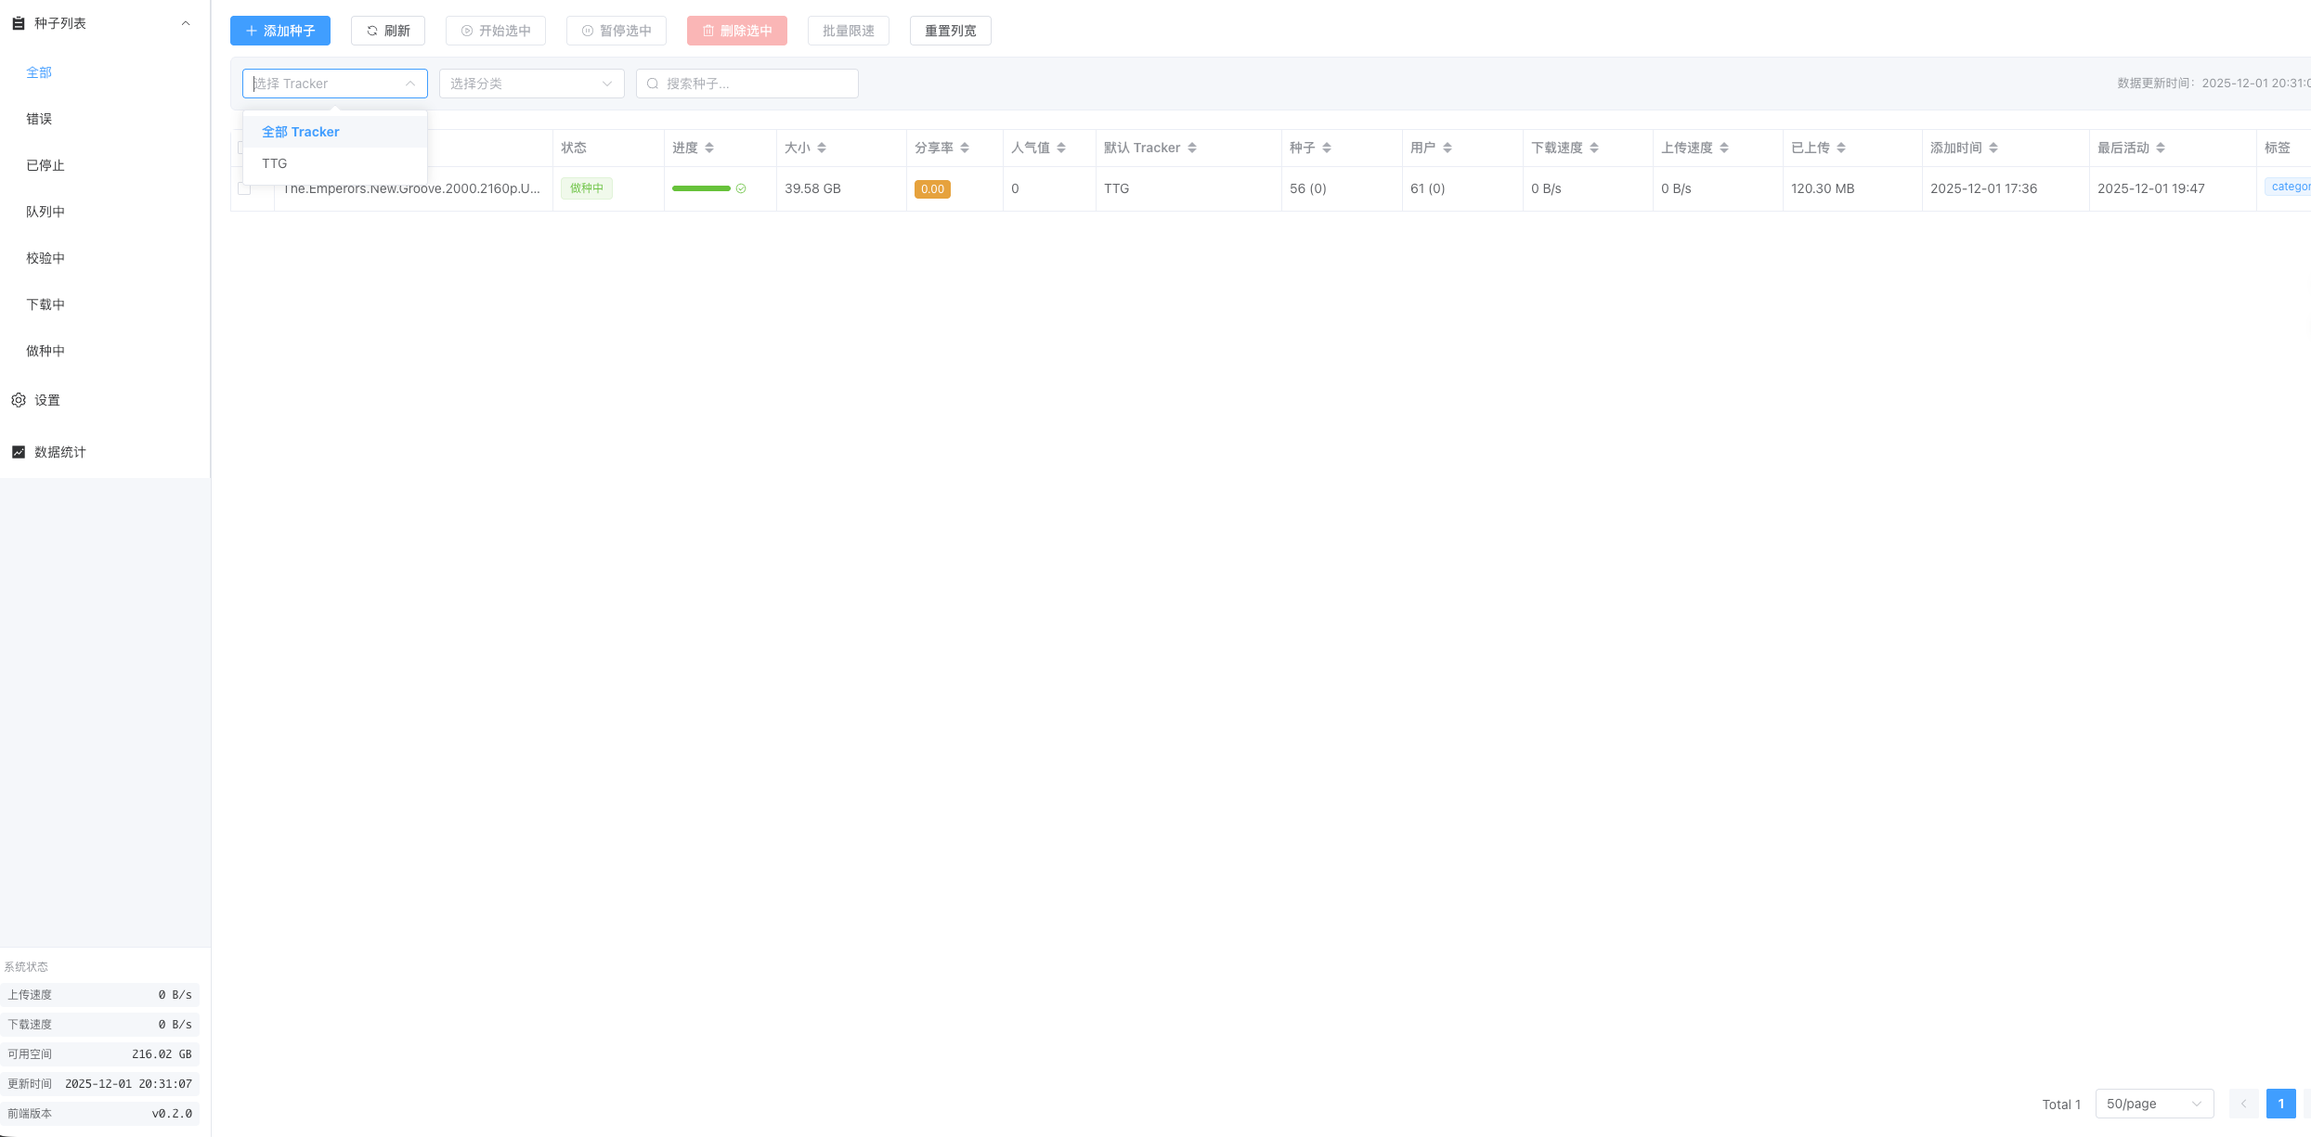
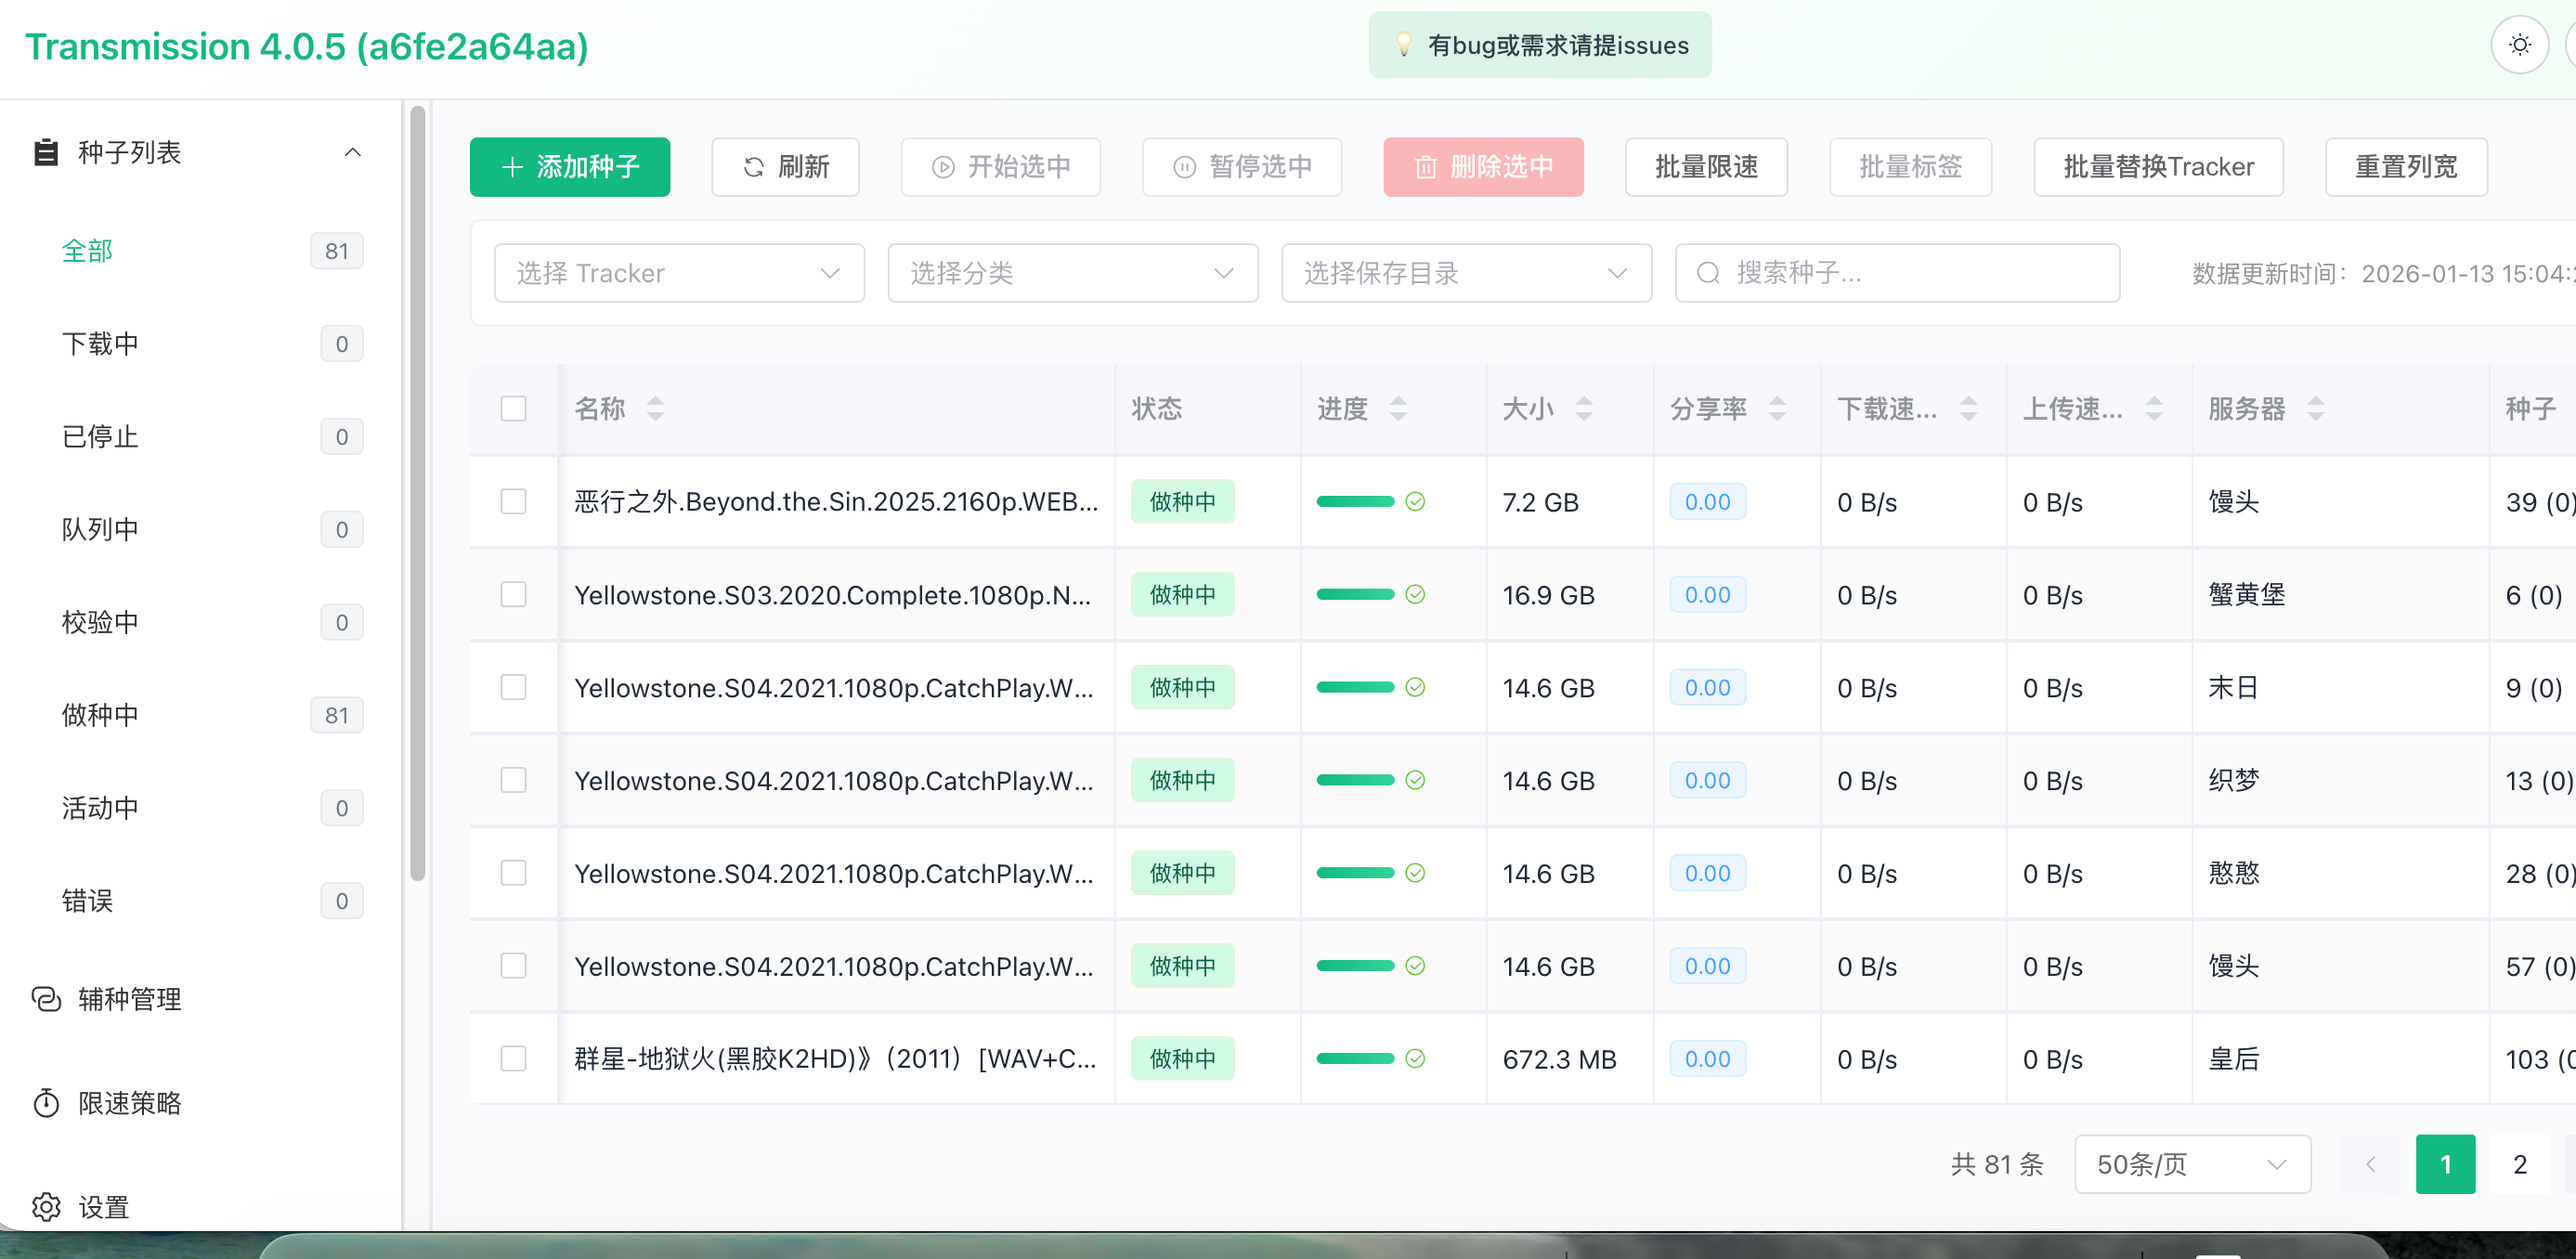
优化全局限速提示,修复默认主题，更新预览图

diff --git a/src/views/HomeView.vue b/src/views/HomeView.vue
@@ -241,6 +241,9 @@
         查看详情
       </button>
       <button @click="handleContextAction('limit')">限速设置</button>
+      <div class="context-menu-divider"></div>
+      <button @click="handleContextAction('copy')">复制文本</button>
+      <div class="context-menu-divider"></div>
       <button class="danger" @click="handleContextAction('delete')">
         删除{{ contextMenuTargets.length > 1 ? "选中" : "" }}
       </button>
@@ -2682,6 +2685,7 @@ const handleContextAction = (
     | "limit"
     | "category"
     | "labels"
+    | "copy"
 ) => {
   const targets = [...contextMenuTargets.value];
   if (!targets.length) return;
@@ -2742,6 +2746,17 @@ const handleContextAction = (
       openBatchLimitDialogWithTargets(targets);
     } else {
       openSingleLimitDialog(targets[0]!);
+    }
+    return;
+  }
+  if (action === "copy") {
+    const selectedText = window.getSelection()?.toString() || "";
+    if (selectedText) {
+      navigator.clipboard.writeText(selectedText).then(() => {
+        ElMessage.success("已复制到剪贴板");
+      }).catch(() => {
+        ElMessage.error("复制失败");
+      });
     }
   }
 };
@@ -4192,6 +4207,12 @@ onBeforeUnmount(() => {
 
 .context-menu button.danger {
   color: #f56c6c;
+}
+
+.context-menu-divider {
+  height: 1px;
+  background-color: #ebeef5;
+  margin: 4px 0;
 }
 
 .table-container {

diff --git a/src/layouts/MainLayout.vue b/src/layouts/MainLayout.vue
@@ -252,18 +252,16 @@ const uploadLimitKBps = computed(() => {
   const c = sessionConfig.value;
   if (!c) return null;
   if (c['alt-speed-enabled']) return c['alt-speed-up'] ?? null;
-  const up = c['speed-limit-up'] ?? 0;
   const enabled = !!c['speed-limit-up-enabled'];
-  if (enabled || up > 0) return up || null;
+  if (enabled) return c['speed-limit-up'] ?? null;
   return null;
 });
 const downloadLimitKBps = computed(() => {
   const c = sessionConfig.value;
   if (!c) return null;
   if (c['alt-speed-enabled']) return c['alt-speed-down'] ?? null;
-  const down = c['speed-limit-down'] ?? 0;
   const enabled = !!c['speed-limit-down-enabled'];
-  if (enabled || down > 0) return down || null;
+  if (enabled) return c['speed-limit-down'] ?? null;
   return null;
 });
 const formatSpeedCompact = (bytesPerSecond: number): string => {
@@ -271,8 +269,8 @@ const formatSpeedCompact = (bytesPerSecond: number): string => {
   return `${formatBytes(bytesPerSecond).replace(" ", "")}/s`;
 };
 const formatLimitText = (kbps: number | null): string | null => {
-  if (kbps == null) return null;
-  return formatSpeedCompact(kbps * 1024);
+  if (kbps == null || kbps === 0) return null;
+  return Math.floor(kbps).toString();
 };
 const uploadSpeedText = computed(() => {
   const bps = sessionStats.value?.uploadSpeed || 0;

diff --git a/src/stores/theme.ts b/src/stores/theme.ts
@@ -13,9 +13,13 @@ export const useThemeStore = defineStore('theme', () => {
     if (savedTheme === 'fresh' || savedTheme === 'default') {
       currentTheme.value = 'green'
       localStorage.setItem('app-theme', 'green')
+      applyTheme('green')
     } else if (savedTheme === 'green' || savedTheme === 'blue' || savedTheme === 'pink') {
       currentTheme.value = savedTheme
       applyTheme(savedTheme)
+    } else {
+      // 首次访问，应用默认主题
+      applyTheme('green')
     }
   }
 

diff --git a/README.md b/README.md
@@ -1,8 +1,6 @@
 > 专门针对 pt 玩家优化的下载器 webui - 优先支持 transmission - 理论上兼容 qbittorrent
 
-> 项目目前处于开荒阶段，更新可能会比较频繁，请见谅
-
-> 界面已经更新，预览图已过期，建议自行安装查看效果
+> 感谢 jackloves111 的加入和贡献
 
 # 说明 (这部分是人工编写的)
 
@@ -86,7 +84,7 @@ environment:
 {你的qb地址}/api/v2/app/setPreferences?json=%7B"alternative_webui_enabled":false%7D
 ```
 
-### 使用说明
+### 开发说明
 
 **登录认证**：
 
@@ -116,7 +114,7 @@ environment:
 
 ![首页](preview/index.png)
 ![数据统计](preview/stat1.png)
-![统计](preview/stat2.png)
+![批量限速](preview/stat2.png)
 
 ## 📄 License
 
